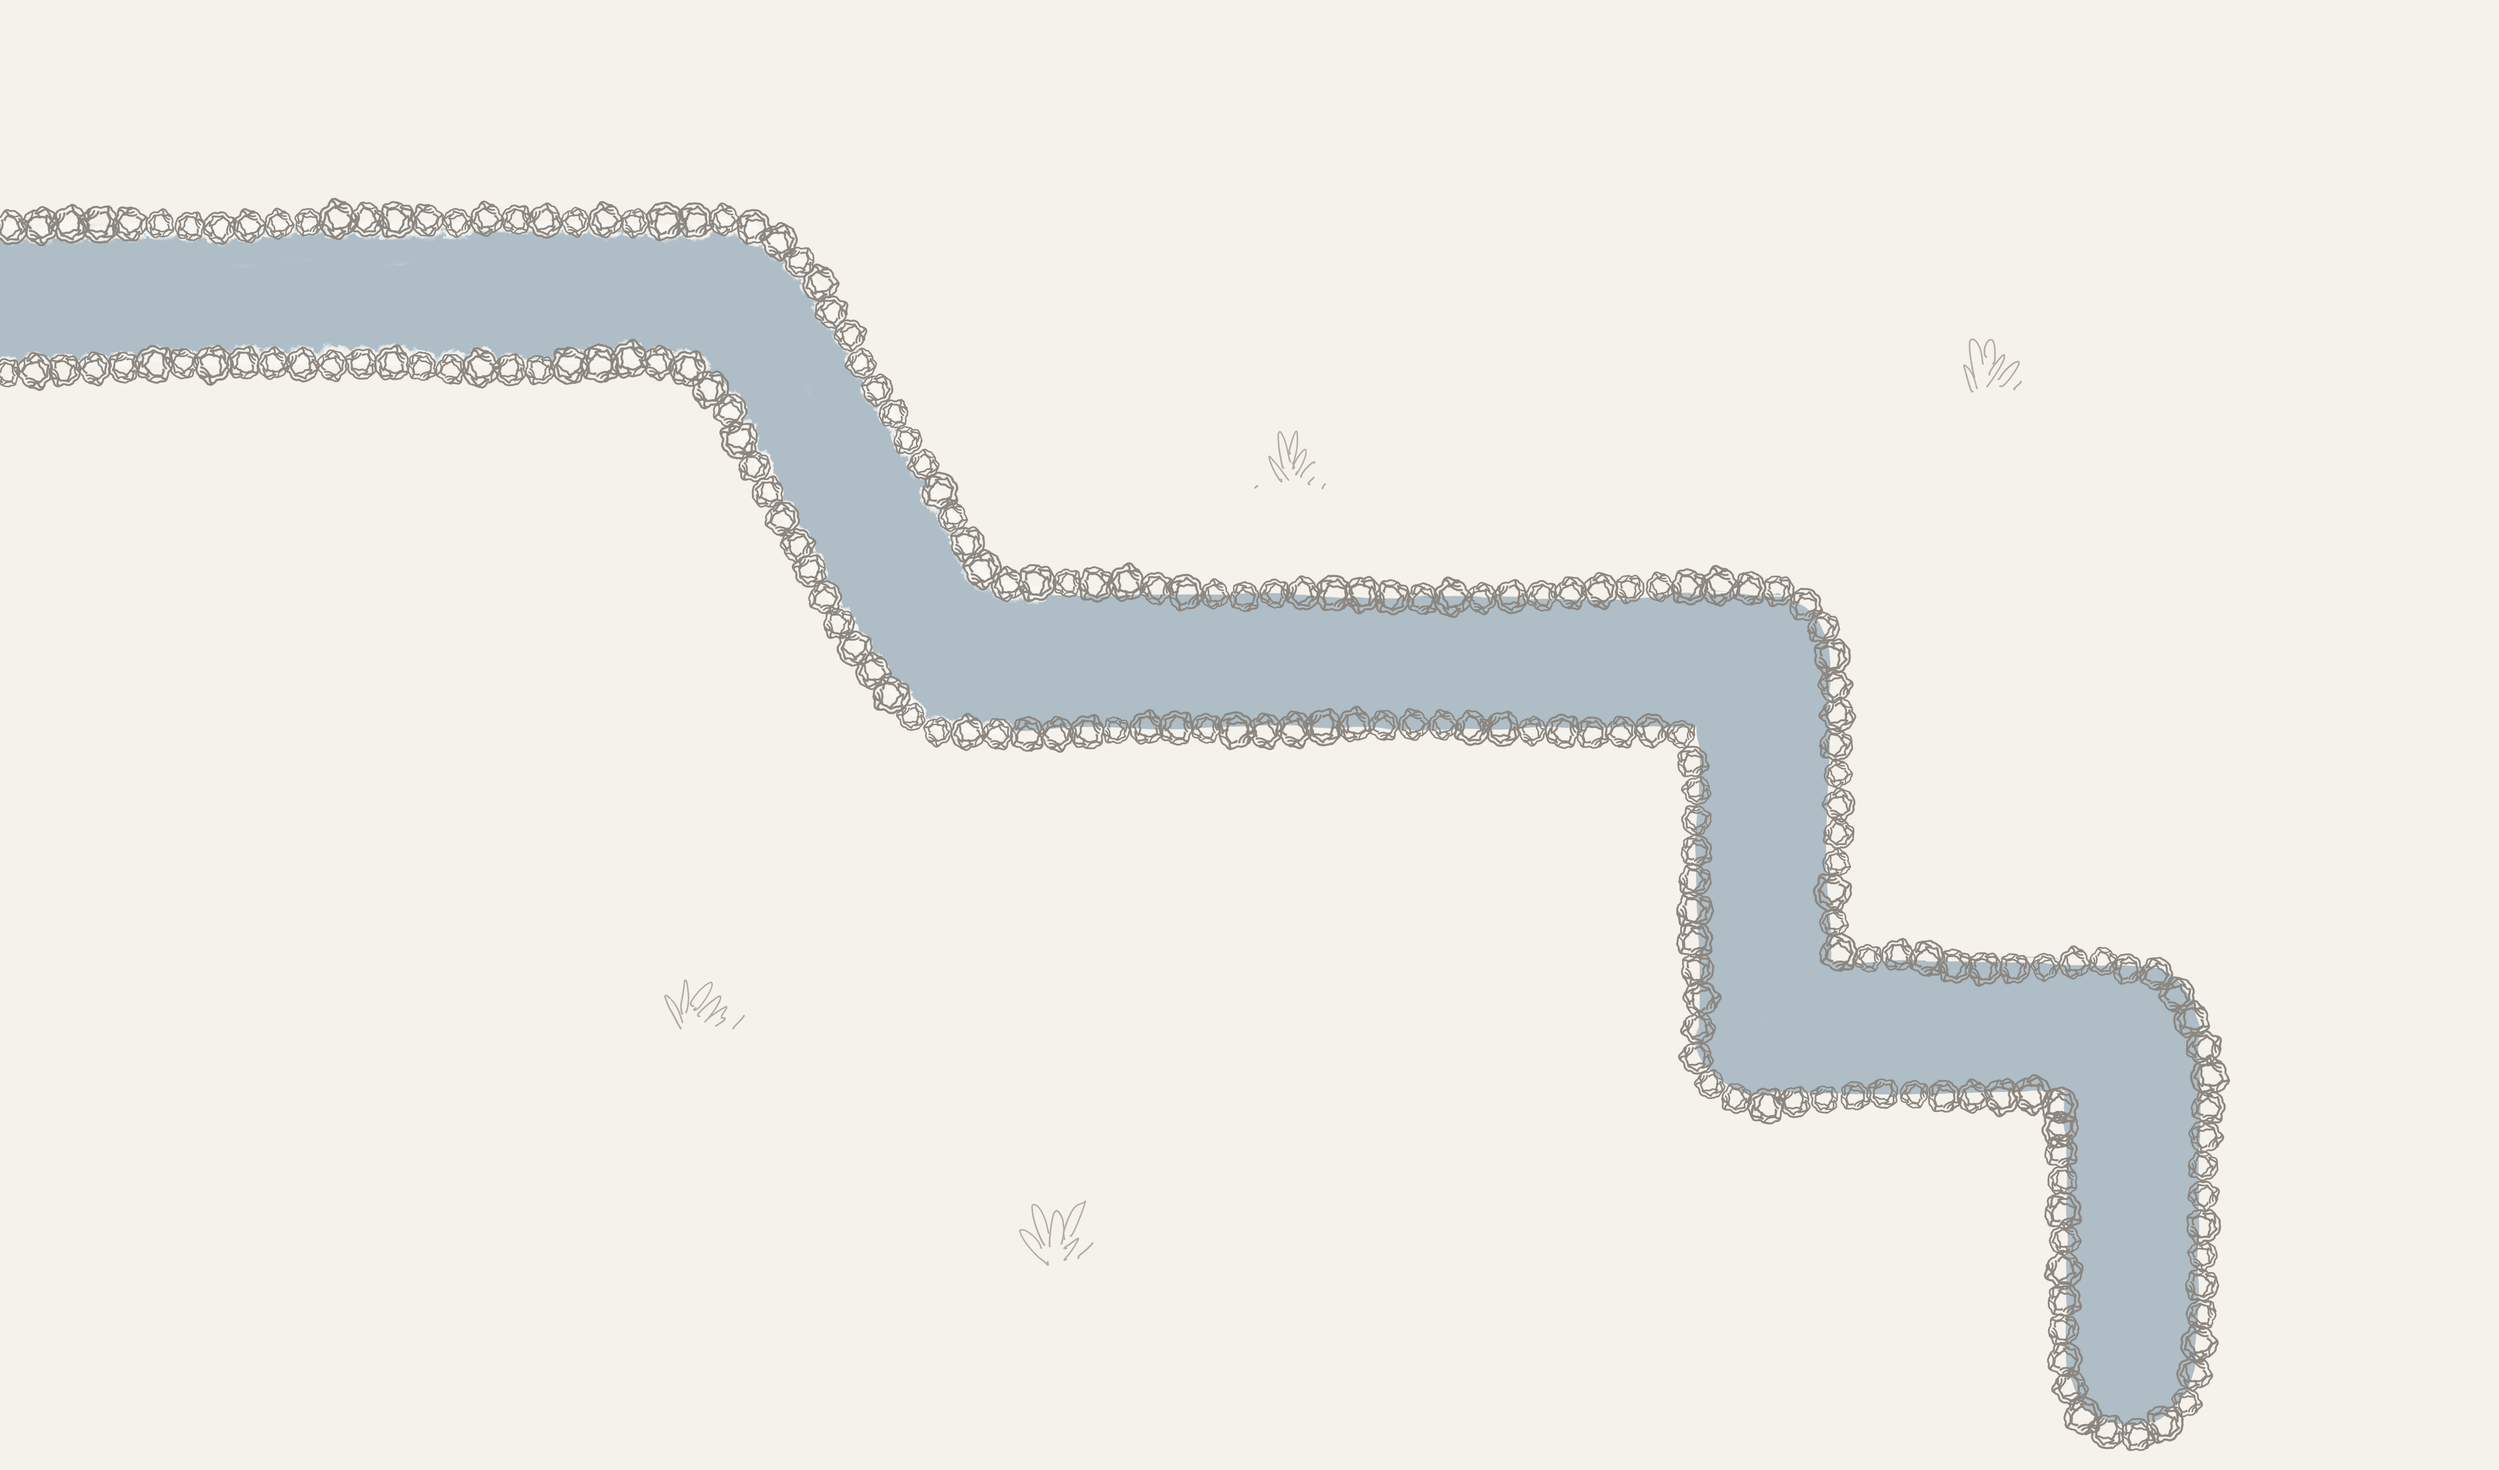
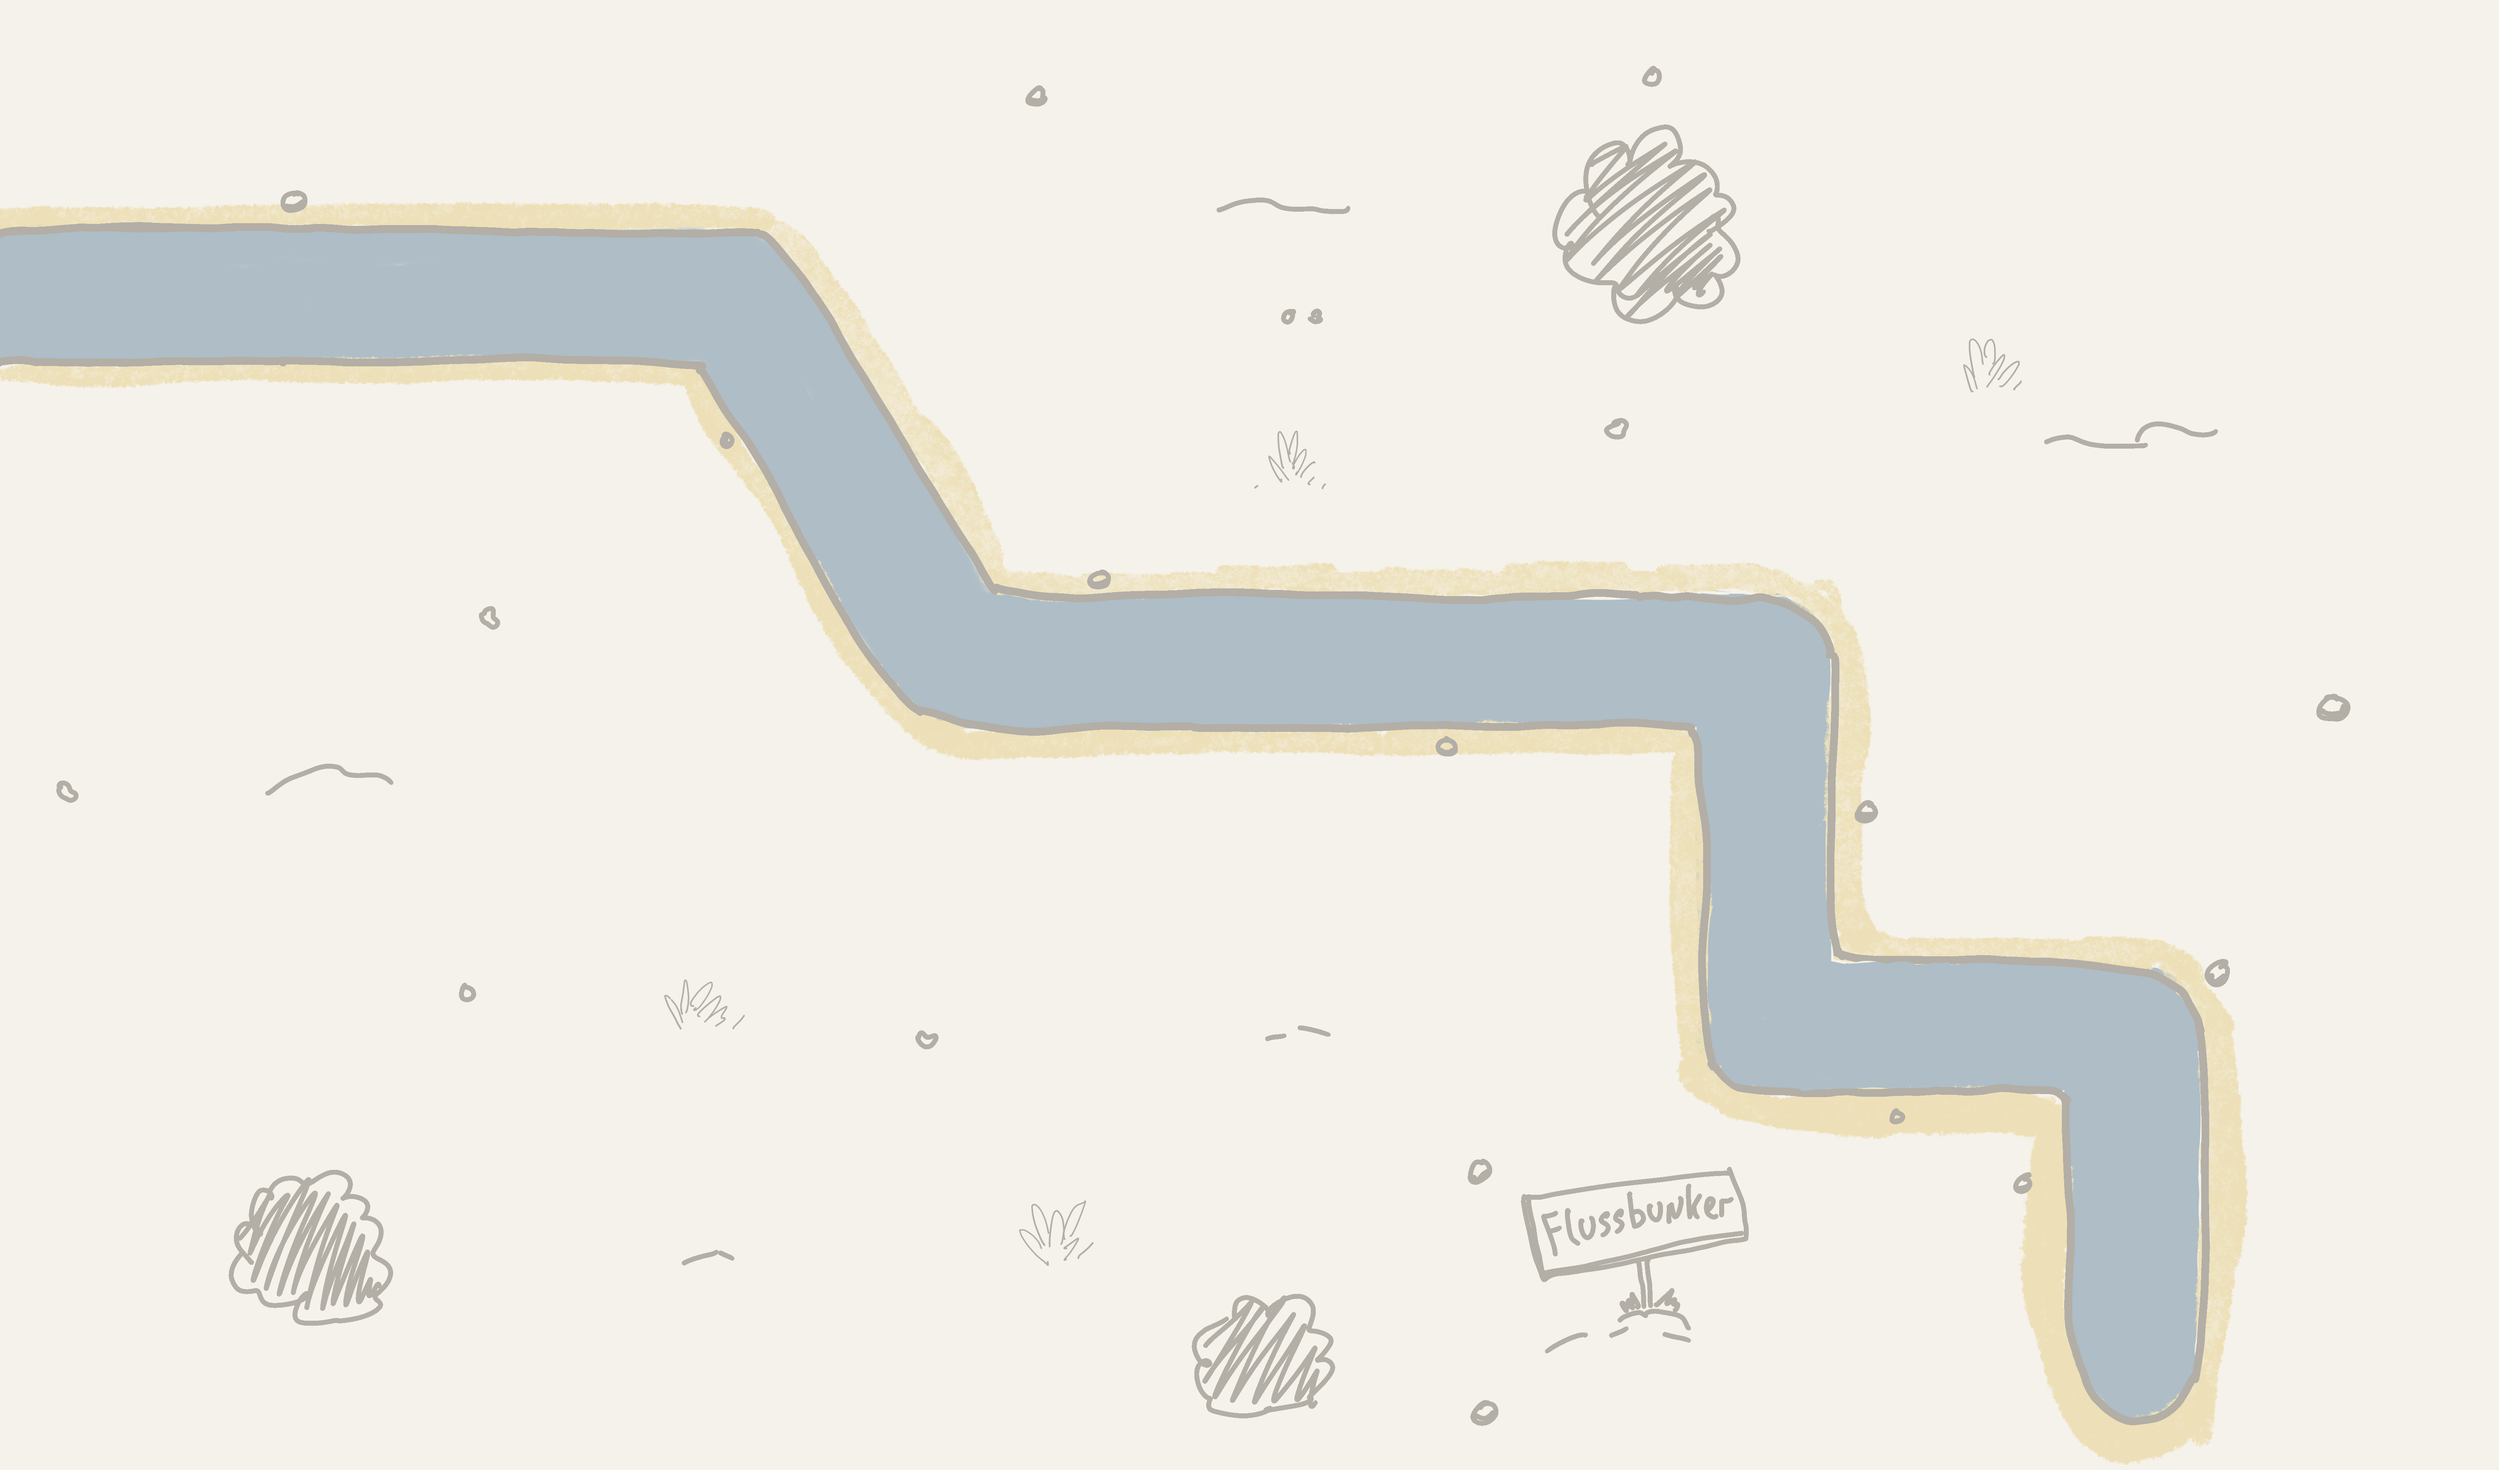
feat(map): build spots moved, every gun covers river from every spot

diff --git a/src/game/map.rs b/src/game/map.rs
@@ -39,14 +39,14 @@ const CENTRELINE_TILES: &[(f32, f32)] = &[
 /// Tile coordinates like `CENTRELINE_TILES`. Mostly at bends, where turrets matter and
 /// torpedoes do not; deliberately too few to cover everything.
 const BUILD_SPOT_TILES: &[(f32, f32)] = &[
-    (7.5, 5.5),
-    (13.0, 4.5),
-    (14.0, 10.5),
-    (20.5, 5.5),
-    (25.5, 10.5),
-    (20.5, 14.5),
-    (25.5, 15.5),
-    (30.5, 14.5),
+    (7.0, 5.0),
+    (12.5, 5.0),
+    (14.0, 10.0),
+    (20.5, 6.0),
+    (25.0, 11.0),
+    (21.0, 11.0),
+    (26.0, 15.0),
+    (30.0, 14.5),
 ];
 
 /// Greybox water; hidden when a painted map exists (`art`).
@@ -232,7 +232,7 @@ fn draw_build_spots(
 #[cfg(test)]
 mod tests {
     use super::*;
-    use crate::balance::TORPEDO_RUN;
+    use crate::balance::{TowerKind, TORPEDO_RUN};
 
     fn map() -> RiverPath {
         let points = CENTRELINE_TILES
@@ -243,7 +243,7 @@ mod tests {
     }
 
     #[test]
-    fn build_spots_are_on_land_within_reach_of_the_river() {
+    fn build_spots_are_on_land() {
         let river = map();
         for &(x, y) in BUILD_SPOT_TILES {
             let (_, distance) = river.project(tile_to_world(x, y));
@@ -251,10 +251,29 @@ mod tests {
                 distance > RIVER_HALF_WIDTH + BUILD_SPOT_RADIUS,
                 "spot ({x}, {y}) touches the water"
             );
-            assert!(
-                distance < 3.0 * TILE_SIZE,
-                "spot ({x}, {y}) is too far from the river"
-            );
+        }
+    }
+
+    #[test]
+    fn every_gun_covers_a_stretch_of_river_from_every_spot() {
+        let river = map();
+        let step = 0.1 * TILE_SIZE;
+        let samples = (river.length() / step) as usize;
+        for kind in TowerKind::ALL {
+            let range = kind.stats(0).range;
+            for &(x, y) in BUILD_SPOT_TILES {
+                let spot = tile_to_world(x, y);
+                let covered = (0..samples)
+                    .filter(|&i| river.point_at(i as f32 * step).distance(spot) <= range)
+                    .count() as f32
+                    * step;
+                assert!(
+                    covered >= 3.0 * TILE_SIZE,
+                    "{} at ({x}, {y}) covers only {:.1} tiles of river",
+                    kind.stats(0).name,
+                    covered / TILE_SIZE
+                );
+            }
         }
     }
 

diff --git a/tools/art_fit.py b/tools/art_fit.py
@@ -34,8 +34,8 @@ RIVER_HALF = 0.9 * TILE
 SPOT_RADIUS = 0.5 * TILE
 BUNKER_SIDE = 1.6 * TILE
 CENTRELINE = [(-1, 3), (9, 3), (12, 8), (23, 8), (23, 13), (28, 13), (28, 17.5)]
-BUILD_SPOTS = [(7.5, 5.5), (13, 4.5), (14, 10.5), (20.5, 5.5),
-               (25.5, 10.5), (20.5, 14.5), (25.5, 15.5), (30.5, 14.5)]
+BUILD_SPOTS = [(7, 5), (12.5, 5), (14, 10), (20.5, 6),
+               (25, 11), (21, 11), (26, 15), (30, 14.5)]
 
 HULL_BEAM_RATIO = 0.55
 UBOAT_BEAM = 22.0
